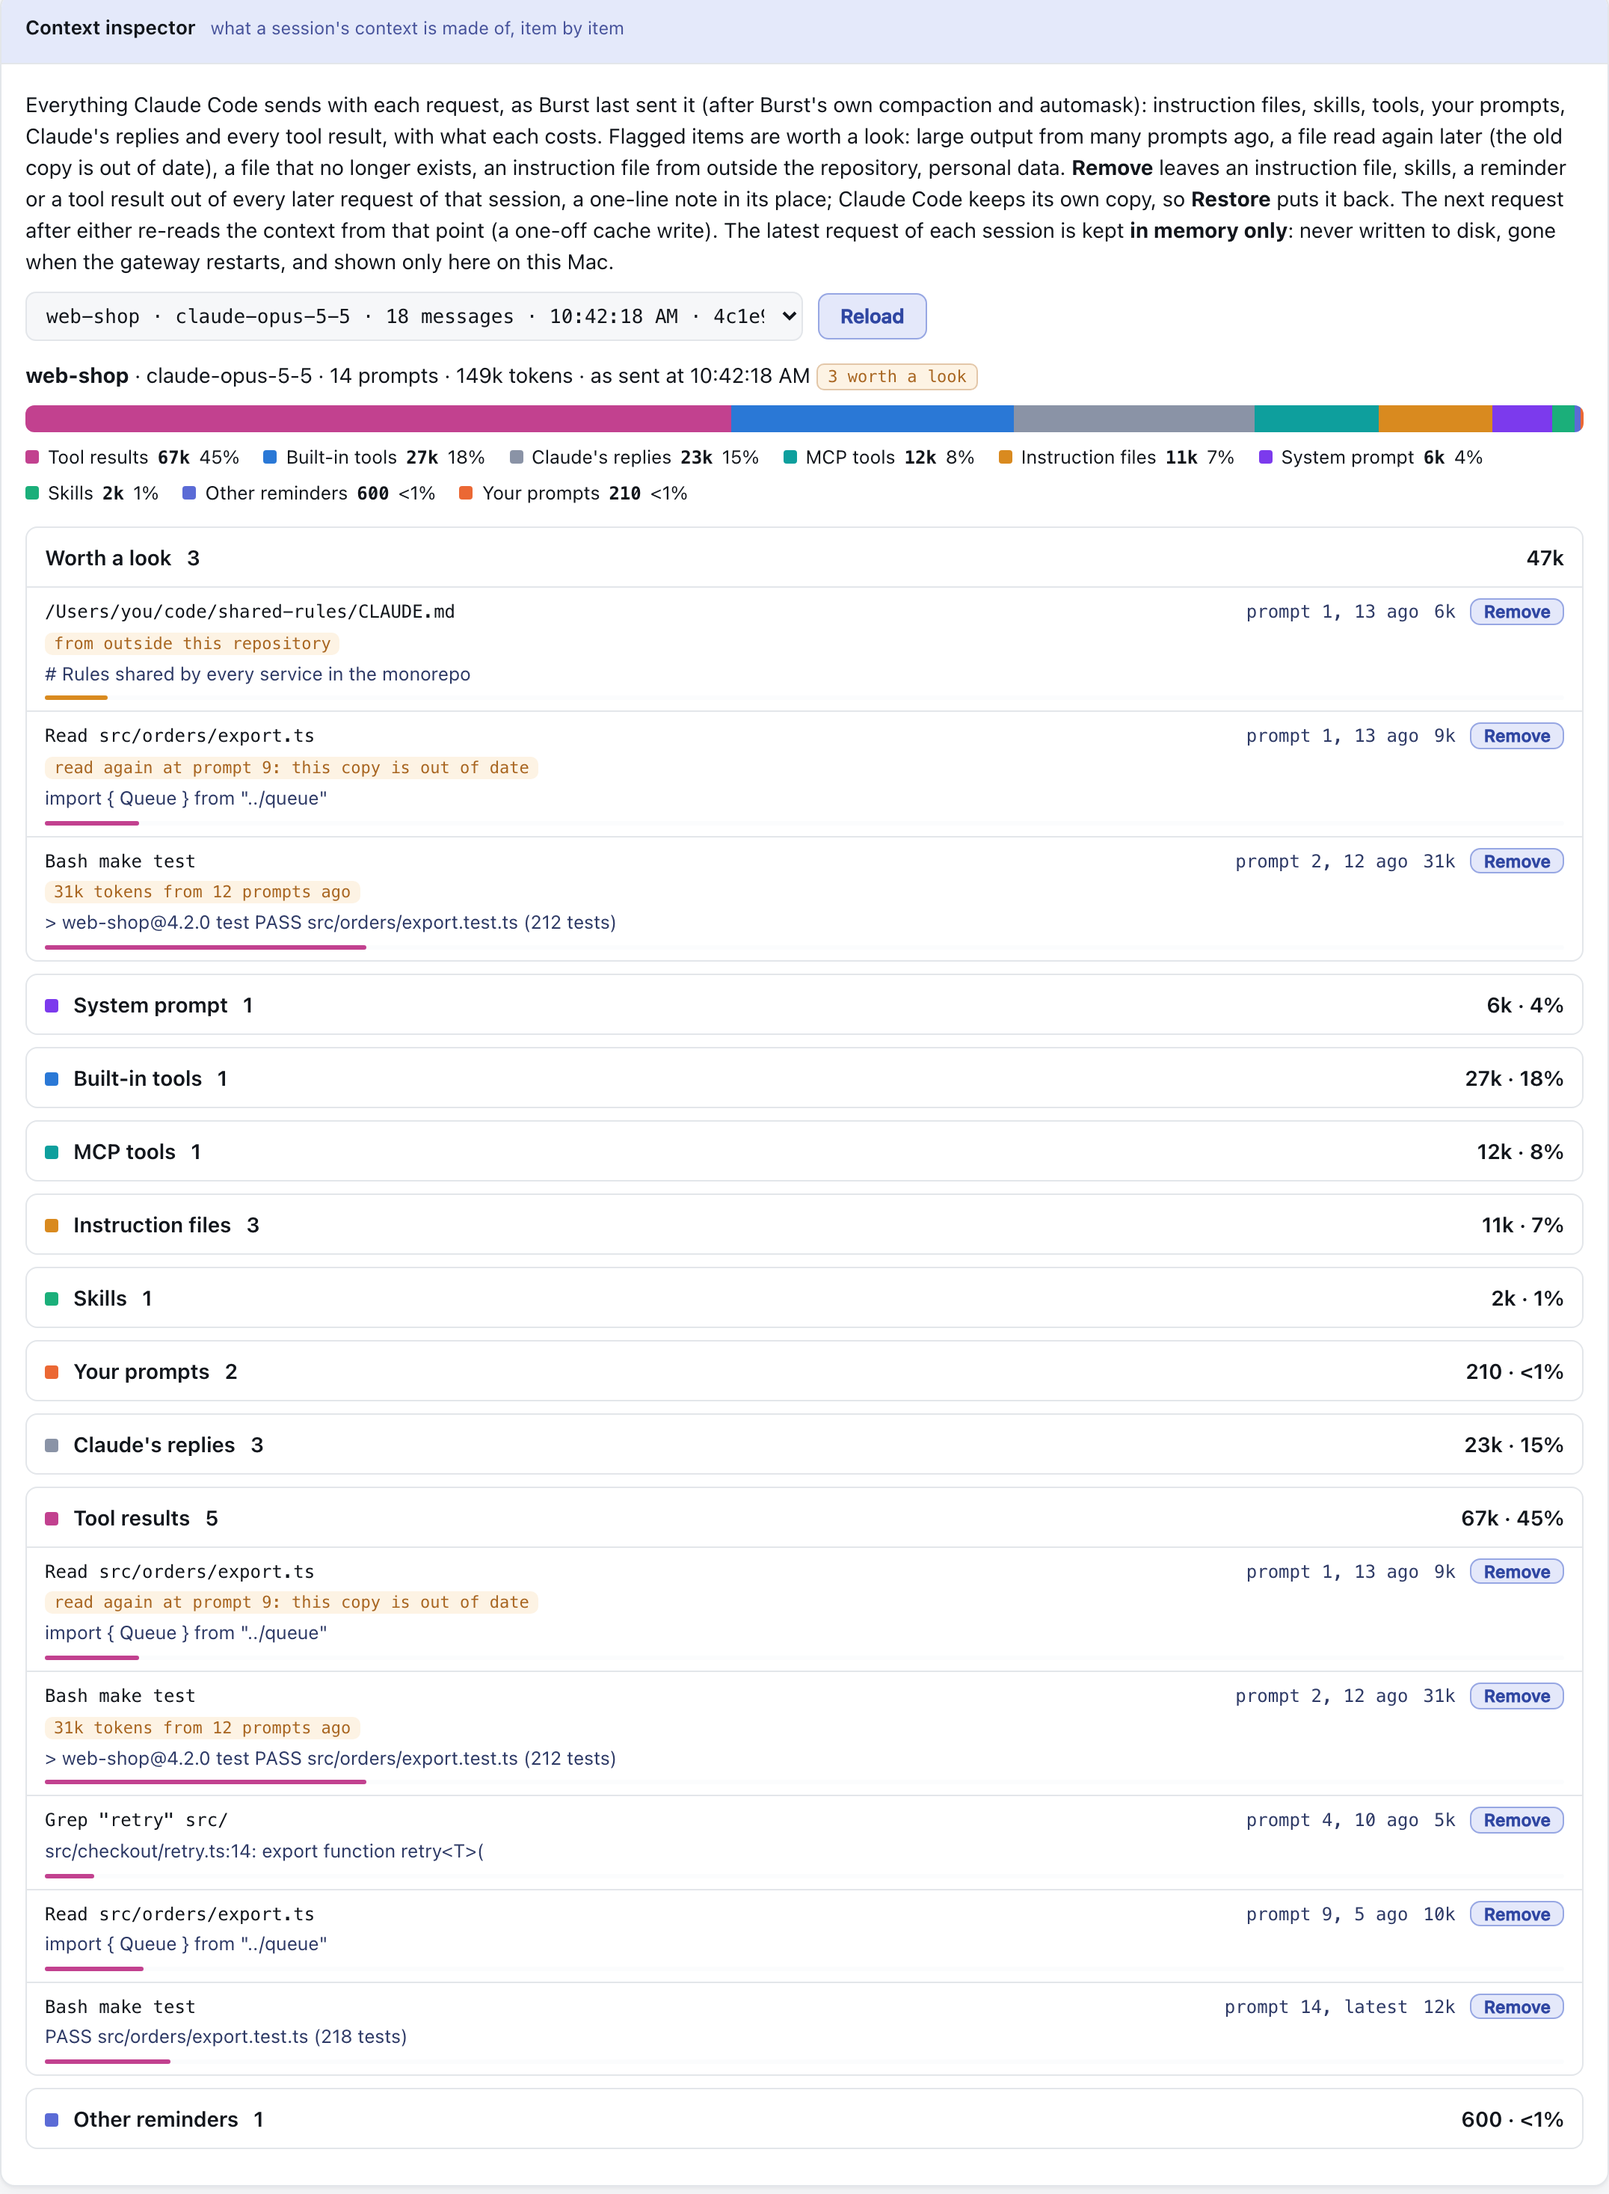
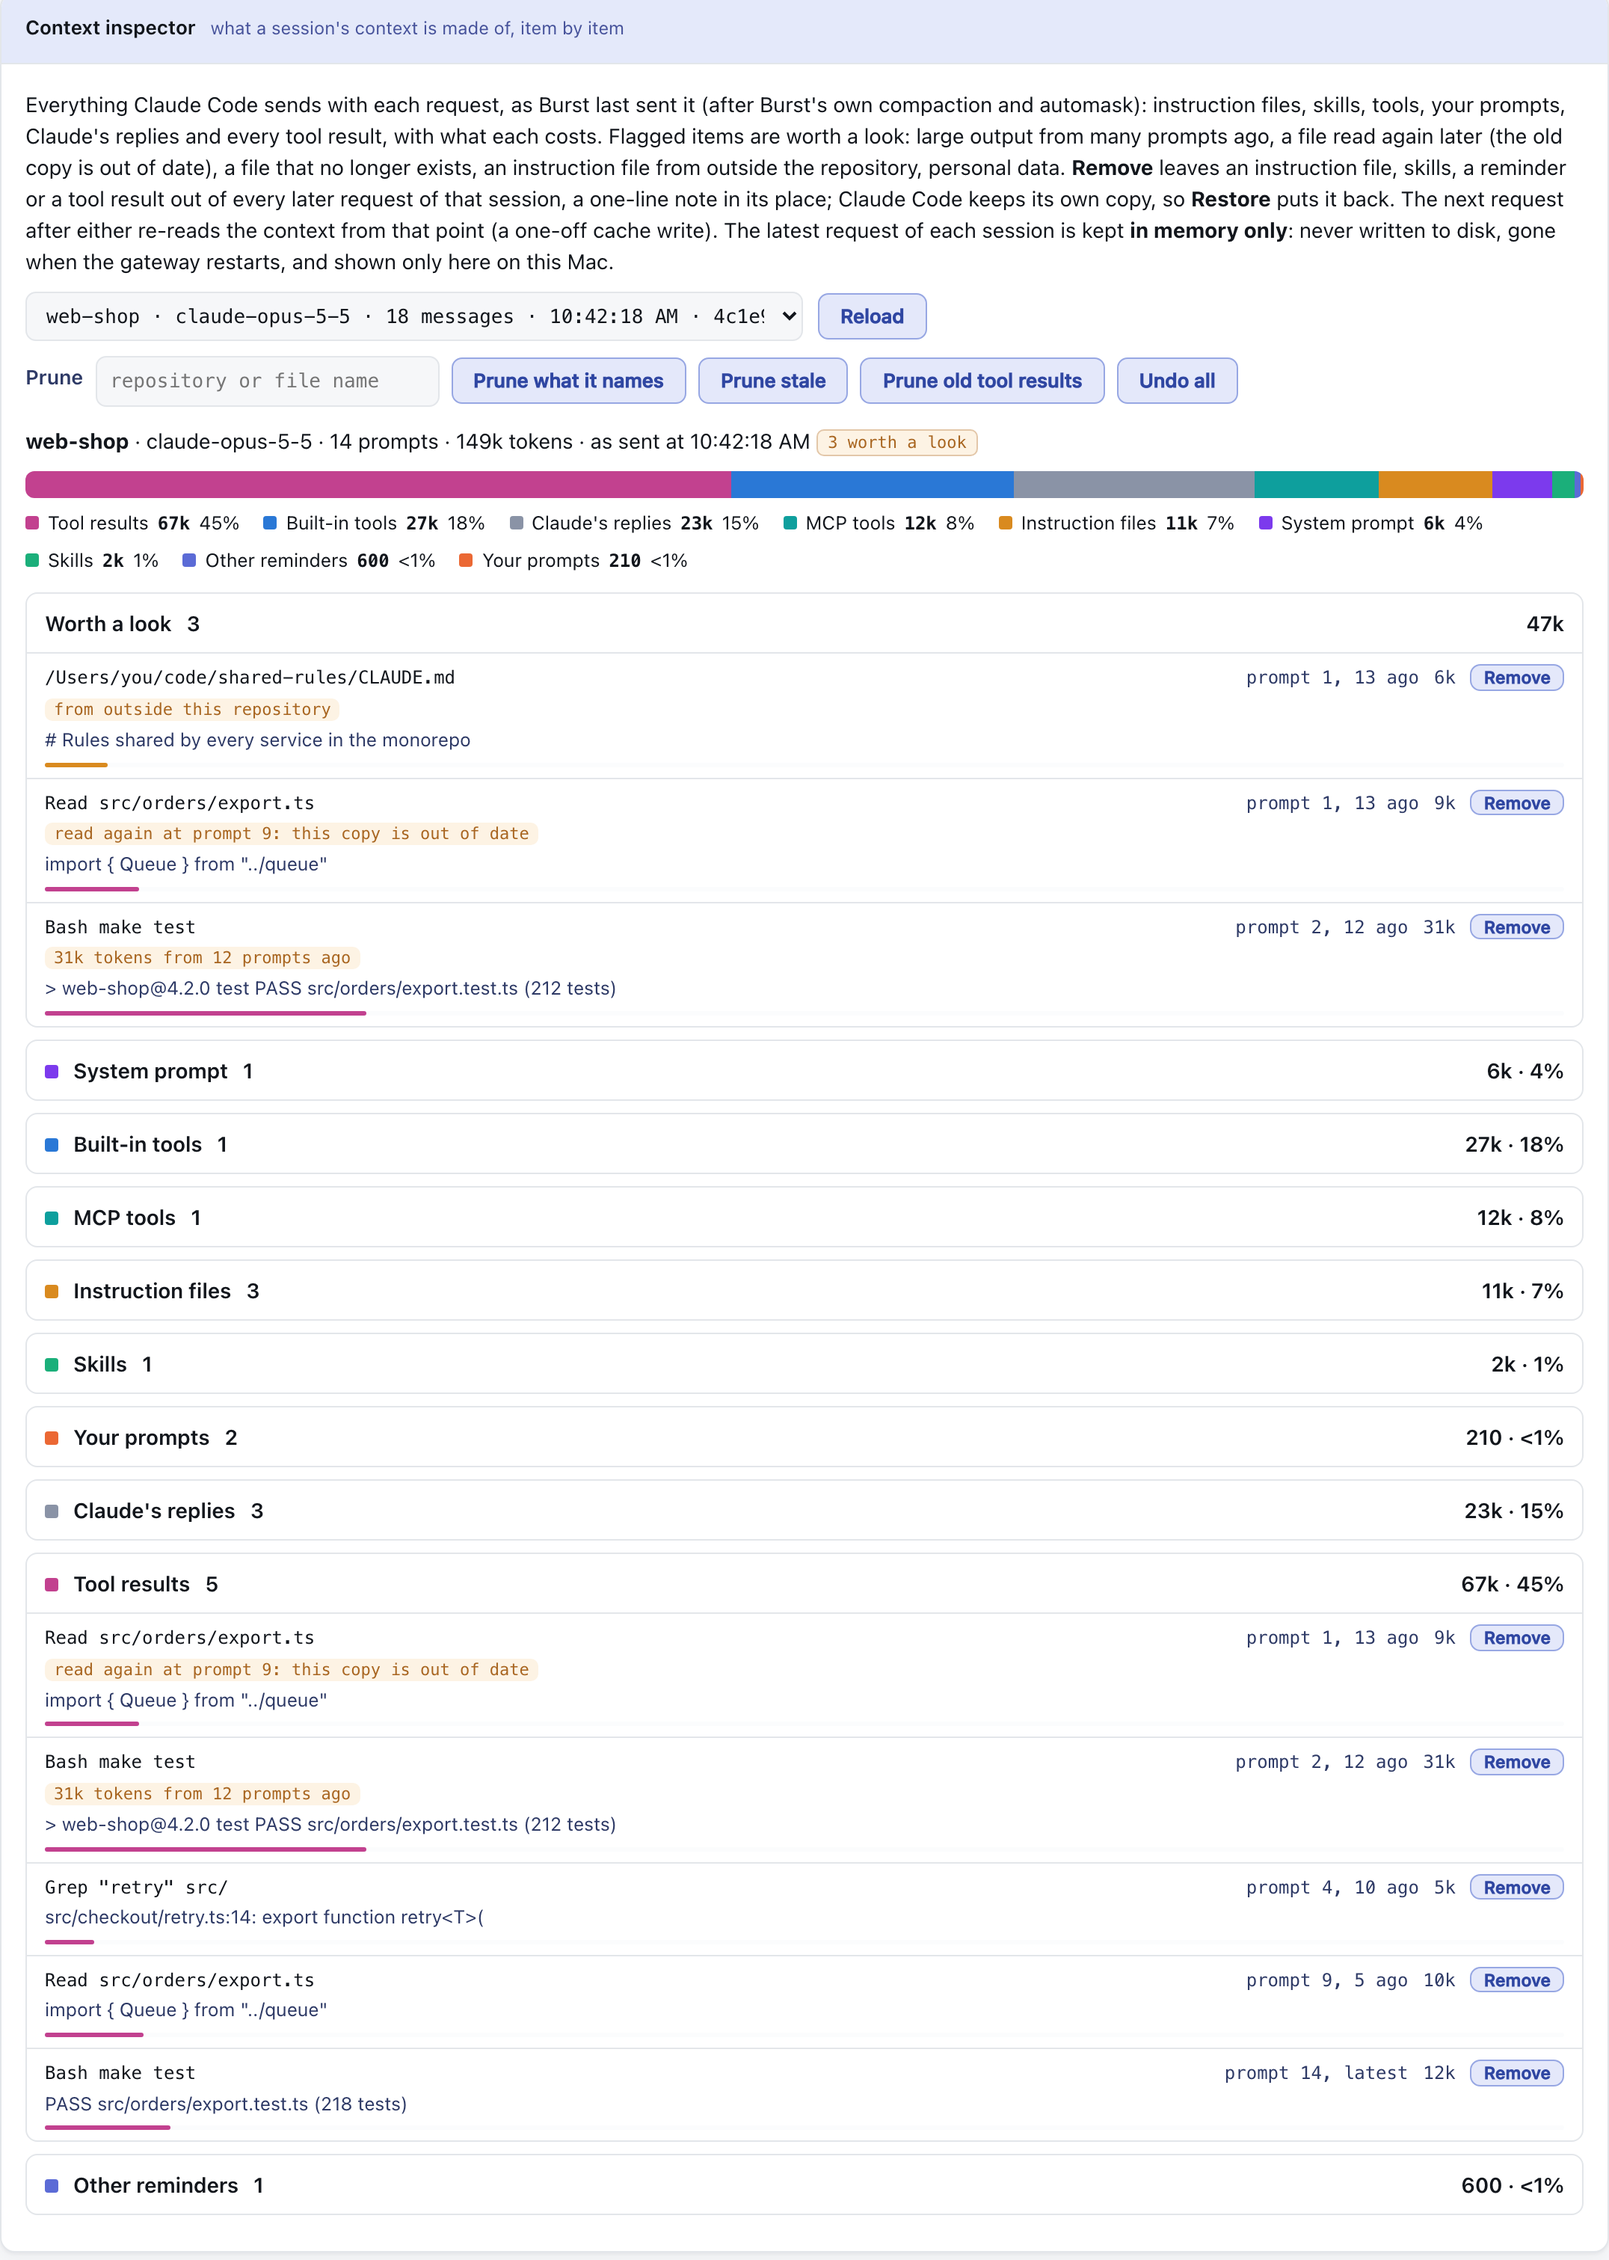
The dashboard's Context inspector prunes a session's context as /burst-prune does (a word naming a repository or file, stale, old tool results, undo all), says how many requests a session on a message thread has sent since the list was taken and can ask for its whole conversation

diff --git a/internal/admin/admin.html b/internal/admin/admin.html
@@ -1664,6 +1664,16 @@
         <select id="inSession" style="max-width:520px"></select>
         <button id="inReload">Reload</button>
       </div>
+      <div class="row" style="align-items:center;gap:8px;margin-top:10px;flex-wrap:wrap">
+        <label class="hint" for="inPruneWord">Prune</label>
+        <input id="inPruneWord" type="text" placeholder="repository or file name" style="width:230px" aria-label="Word naming what to prune">
+        <button id="inPruneGo" title="Remove every tool result and instruction file whose file, command or name has the word. /burst-prune <word> in the session does the same">Prune what it names</button>
+        <button id="inPruneStale" title="Remove out of date copies of files read again later, results for files that no longer exist, and large results from ten or more prompts ago">Prune stale</button>
+        <button id="inPruneResults" title="Remove every tool result from before the latest prompt: for when a task is finished">Prune old tool results</button>
+        <button id="inPruneUndo" title="Put back everything removed from this session, by a prune or by Remove">Undo all</button>
+        <button id="inRefresh" hidden title="This session sends only what is new with each request. This has its whole conversation asked for with its next request">Bring up to date</button>
+      </div>
+      <div id="inPruneNote"></div>
       <div id="inSummary" style="margin:12px 0"></div>
       <div id="inBody"></div>
     </div>
@@ -6671,6 +6681,8 @@ function makeInspector(o) {
     $(o.summary).innerHTML = `<b>${esc(d.repo || "?")}</b> <span class="hint">&middot; ${esc(d.model)} &middot; ${d.prompts} prompts &middot; ${inTok(d.context || total)} tokens${d.estimate ? " (estimated: no reply reported the size yet)" : ""} &middot; as sent at ${esc(stamp(d.at))}</span> ` +
       (d.flagged ? `<span class="pill s">${d.flagged} worth a look</span>` : `<span class="pill p">nothing flagged</span>`) +
       (removed ? ` <span class="pill">${removed} removed by you</span>` : "");
+    if (d.since) $(o.summary).innerHTML += `<div class="hint" style="margin-top:6px">${d.since} ${d.since === 1 ? "request" : "requests"} since then added to it and ${d.since === 1 ? "is" : "are"} not listed: this session sends only what is new with each request. A prune, or <b>Bring up to date</b>, has the whole conversation asked for with its next request.</div>`;
+    if (o.prune) $("inRefresh").hidden = !d.since;
     const sh = inShares(d.items), pc = x => x < 0.005 ? "<1%" : Math.round(x * 100) + "%";
     const colorOf = name => (sh.groups.find(g => g.name === name) || {}).color || "";
     const bySize = sh.groups.filter(g => g.tokens > 0).sort((a, b) => b.tokens - a.tokens);
@@ -6726,12 +6738,35 @@ function makeInspector(o) {
       p.textContent = await r.text();
     } catch (err) { p.textContent = String(err); }
   });
+  // Prune: Remove for many items at once, chosen by a word. Claude Code's
+  // inspector only; /burst-prune in the session is the same request.
+  if (o.prune) {
+    const run = async (body, ask) => {
+      if (!data) return;
+      if (ask && !confirm(ask + "\n\nClaude Code keeps its own copy. Burst leaves each one out of every later request of this session, with a one-line note in its place. The next request writes what follows the first of them to the cache again, once. Undo all puts them back.")) return;
+      try {
+        const r = await post(body.refresh ? "/api/inspect/refresh" : "/api/inspect/prune", {session: data.session, ...body});
+        note($("inPruneNote"), "ok", r.detail || "Done.");
+        load();
+      } catch (err) { note($("inPruneNote"), "bad", "Nothing changed: " + err.message); }
+    };
+    $("inPruneGo").onclick = () => {
+      const w = $("inPruneWord").value.trim();
+      if (!w) { note($("inPruneNote"), "bad", "Type a word first: a repository's name, a file's name."); return; }
+      run({what: w}, `Prune every tool result and instruction file whose file, command or name has "${w}"?`);
+    };
+    $("inPruneWord").onkeydown = e => { if (e.key === "Enter") $("inPruneGo").click(); };
+    $("inPruneStale").onclick = () => run({what: "stale"}, "Prune out of date copies of files read again later, results for files that no longer exist, and large results from ten or more prompts ago?");
+    $("inPruneResults").onclick = () => run({what: "results"}, "Prune every tool result from before the latest prompt?");
+    $("inPruneUndo").onclick = () => run({restore: true});
+    $("inRefresh").onclick = () => run({refresh: true});
+  }
   $(o.sel).onchange = load;
   $(o.reload).onclick = loadSessions;
   loadSessions();
   return {loadSessions};
 }
-makeInspector({engine: "claude", sel: "inSession", reload: "inReload", summary: "inSummary", body: "inBody", dot: "nd-inspect",
+makeInspector({engine: "claude", prune: true, sel: "inSession", reload: "inReload", summary: "inSummary", body: "inBody", dot: "nd-inspect",
   who: "Claude Code", unit: "messages", none: "no session yet: one appears after its next request"});
 // var, not const: setTab runs before this line on a page opened on Codex.
 var cxInspector = makeInspector({engine: "codex", sel: "cxInSession", reload: "cxInReload", summary: "cxInSummary", body: "cxInBody", dot: "nd-cx-inspect",

diff --git a/docs/dashboard.md b/docs/dashboard.md
@@ -190,6 +190,16 @@ flowchart LR
 | Claude's replies | Text, thinking and tool calls | from that prompt on | no: thinking is signed |
 | Tool results | Files read, command output, search results | from that prompt on | yes |
 
+**Prune** (the row under the session picker) is Remove for many items at once:
+
+| Control | What it removes |
+| --- | --- |
+| A word and **Prune what it names** | Every tool result and instruction file whose file, command or name has the word |
+| **Prune stale** | Out of date copies of files read again later, results for files that no longer exist, large results from ten or more prompts ago |
+| **Prune old tool results** | Every tool result from before the latest prompt |
+| **Undo all** | Nothing: it puts back everything removed from the session |
+| **Bring up to date** | Nothing: shown when the list is behind, it has the whole conversation asked for with the session's next request |
+
 **From inside a session** (mod 0.12.0 or later)
 
 The cache holds exactly what was last sent, so the inspector's list is the content of the cache. Two commands ask for it from the session, without opening the dashboard:
